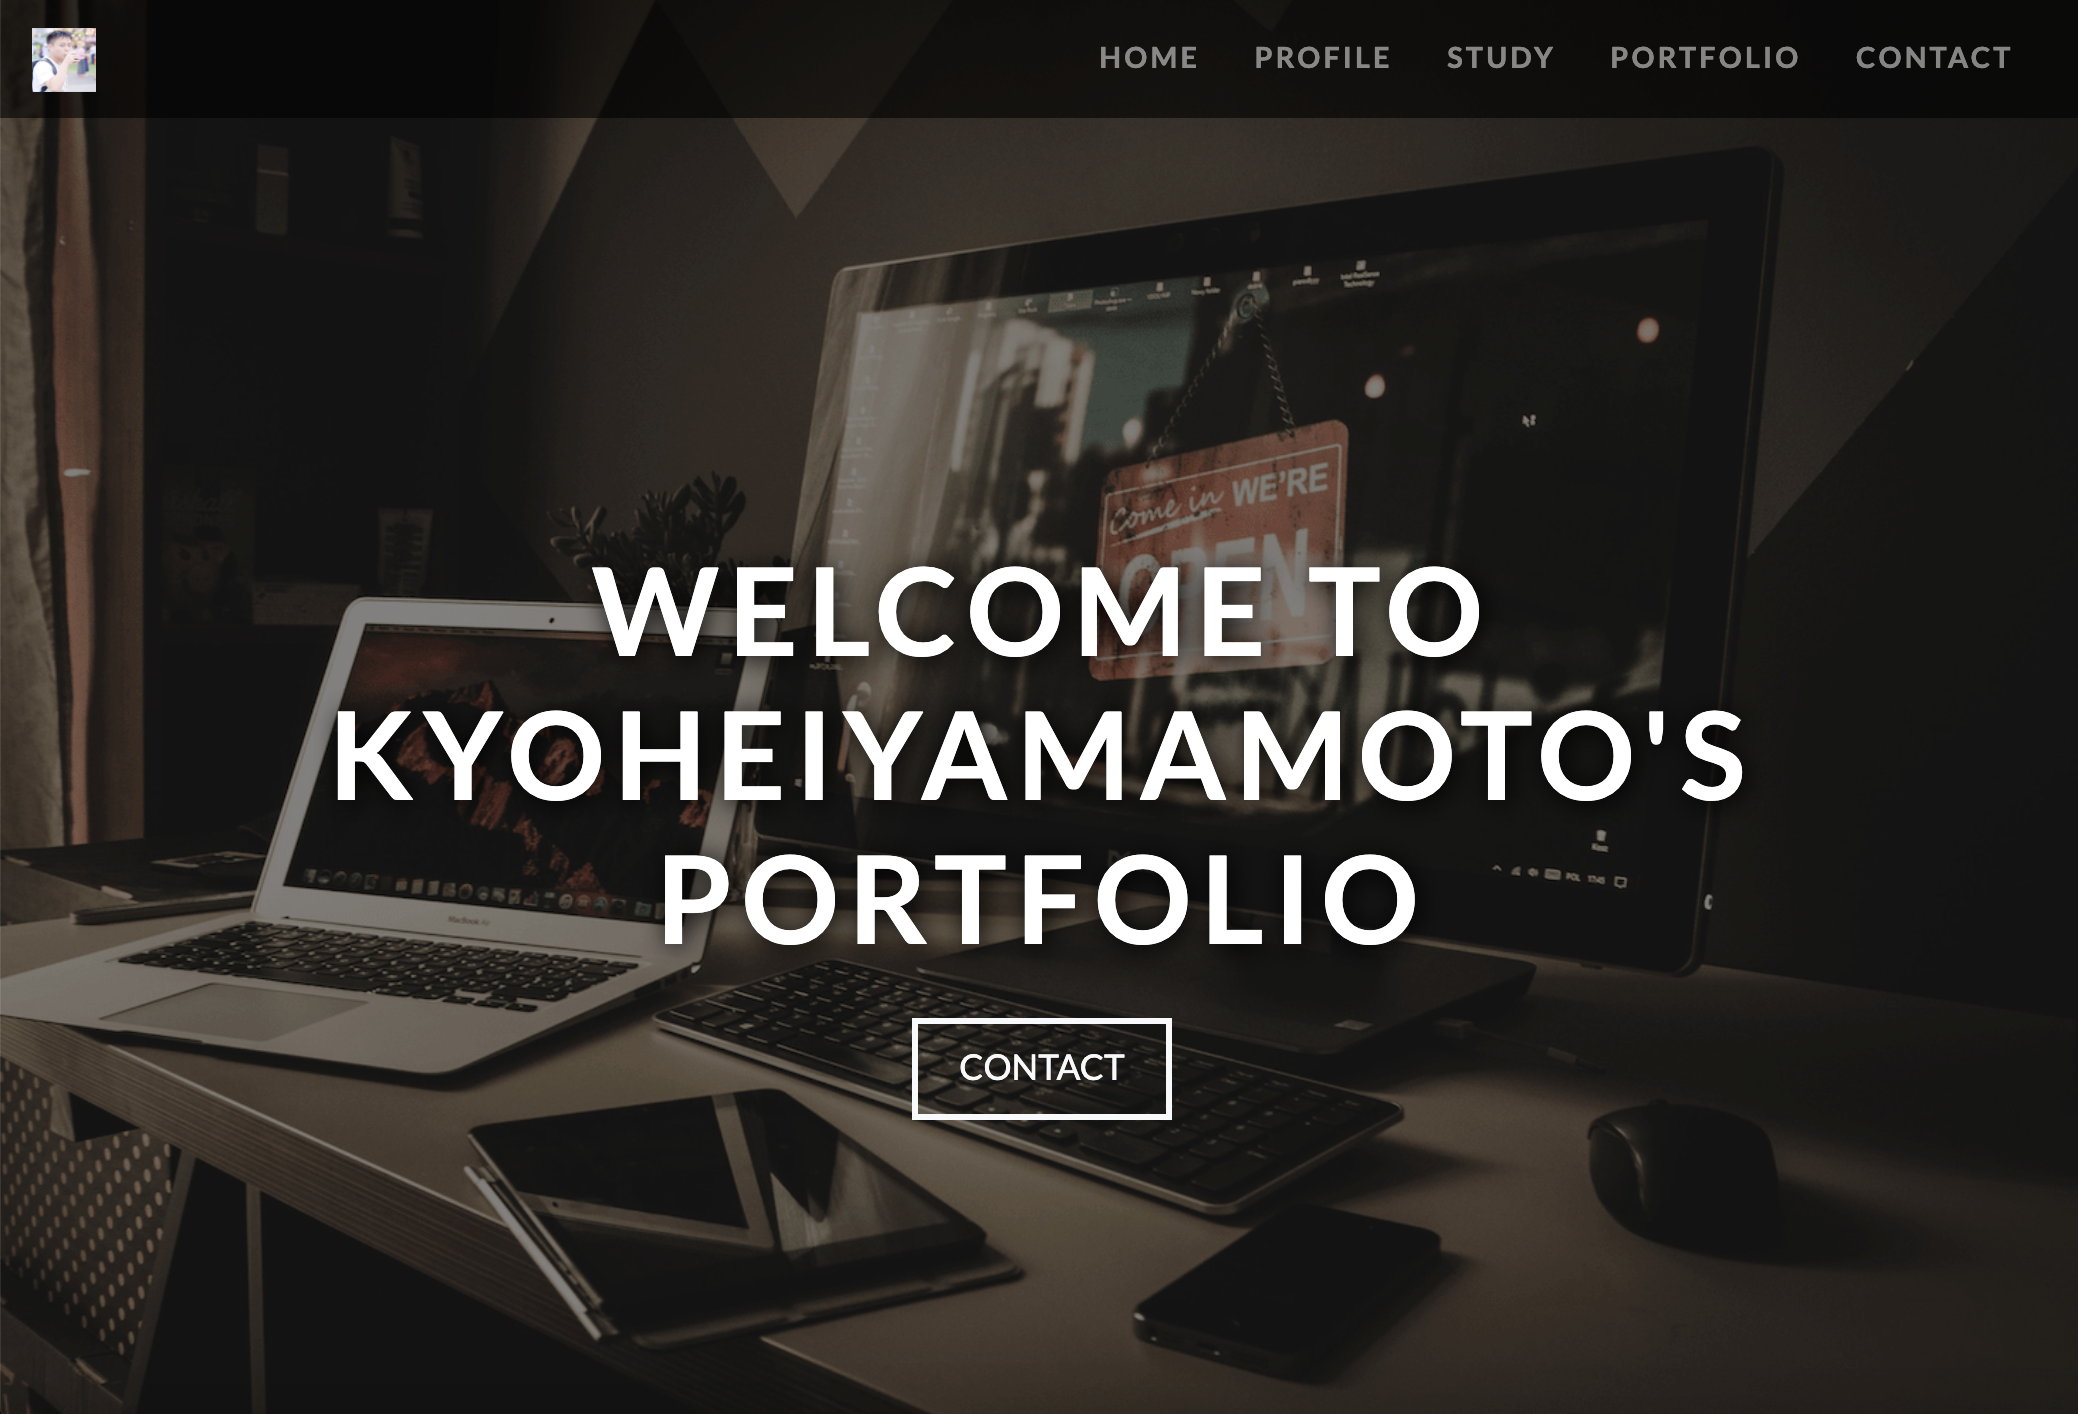
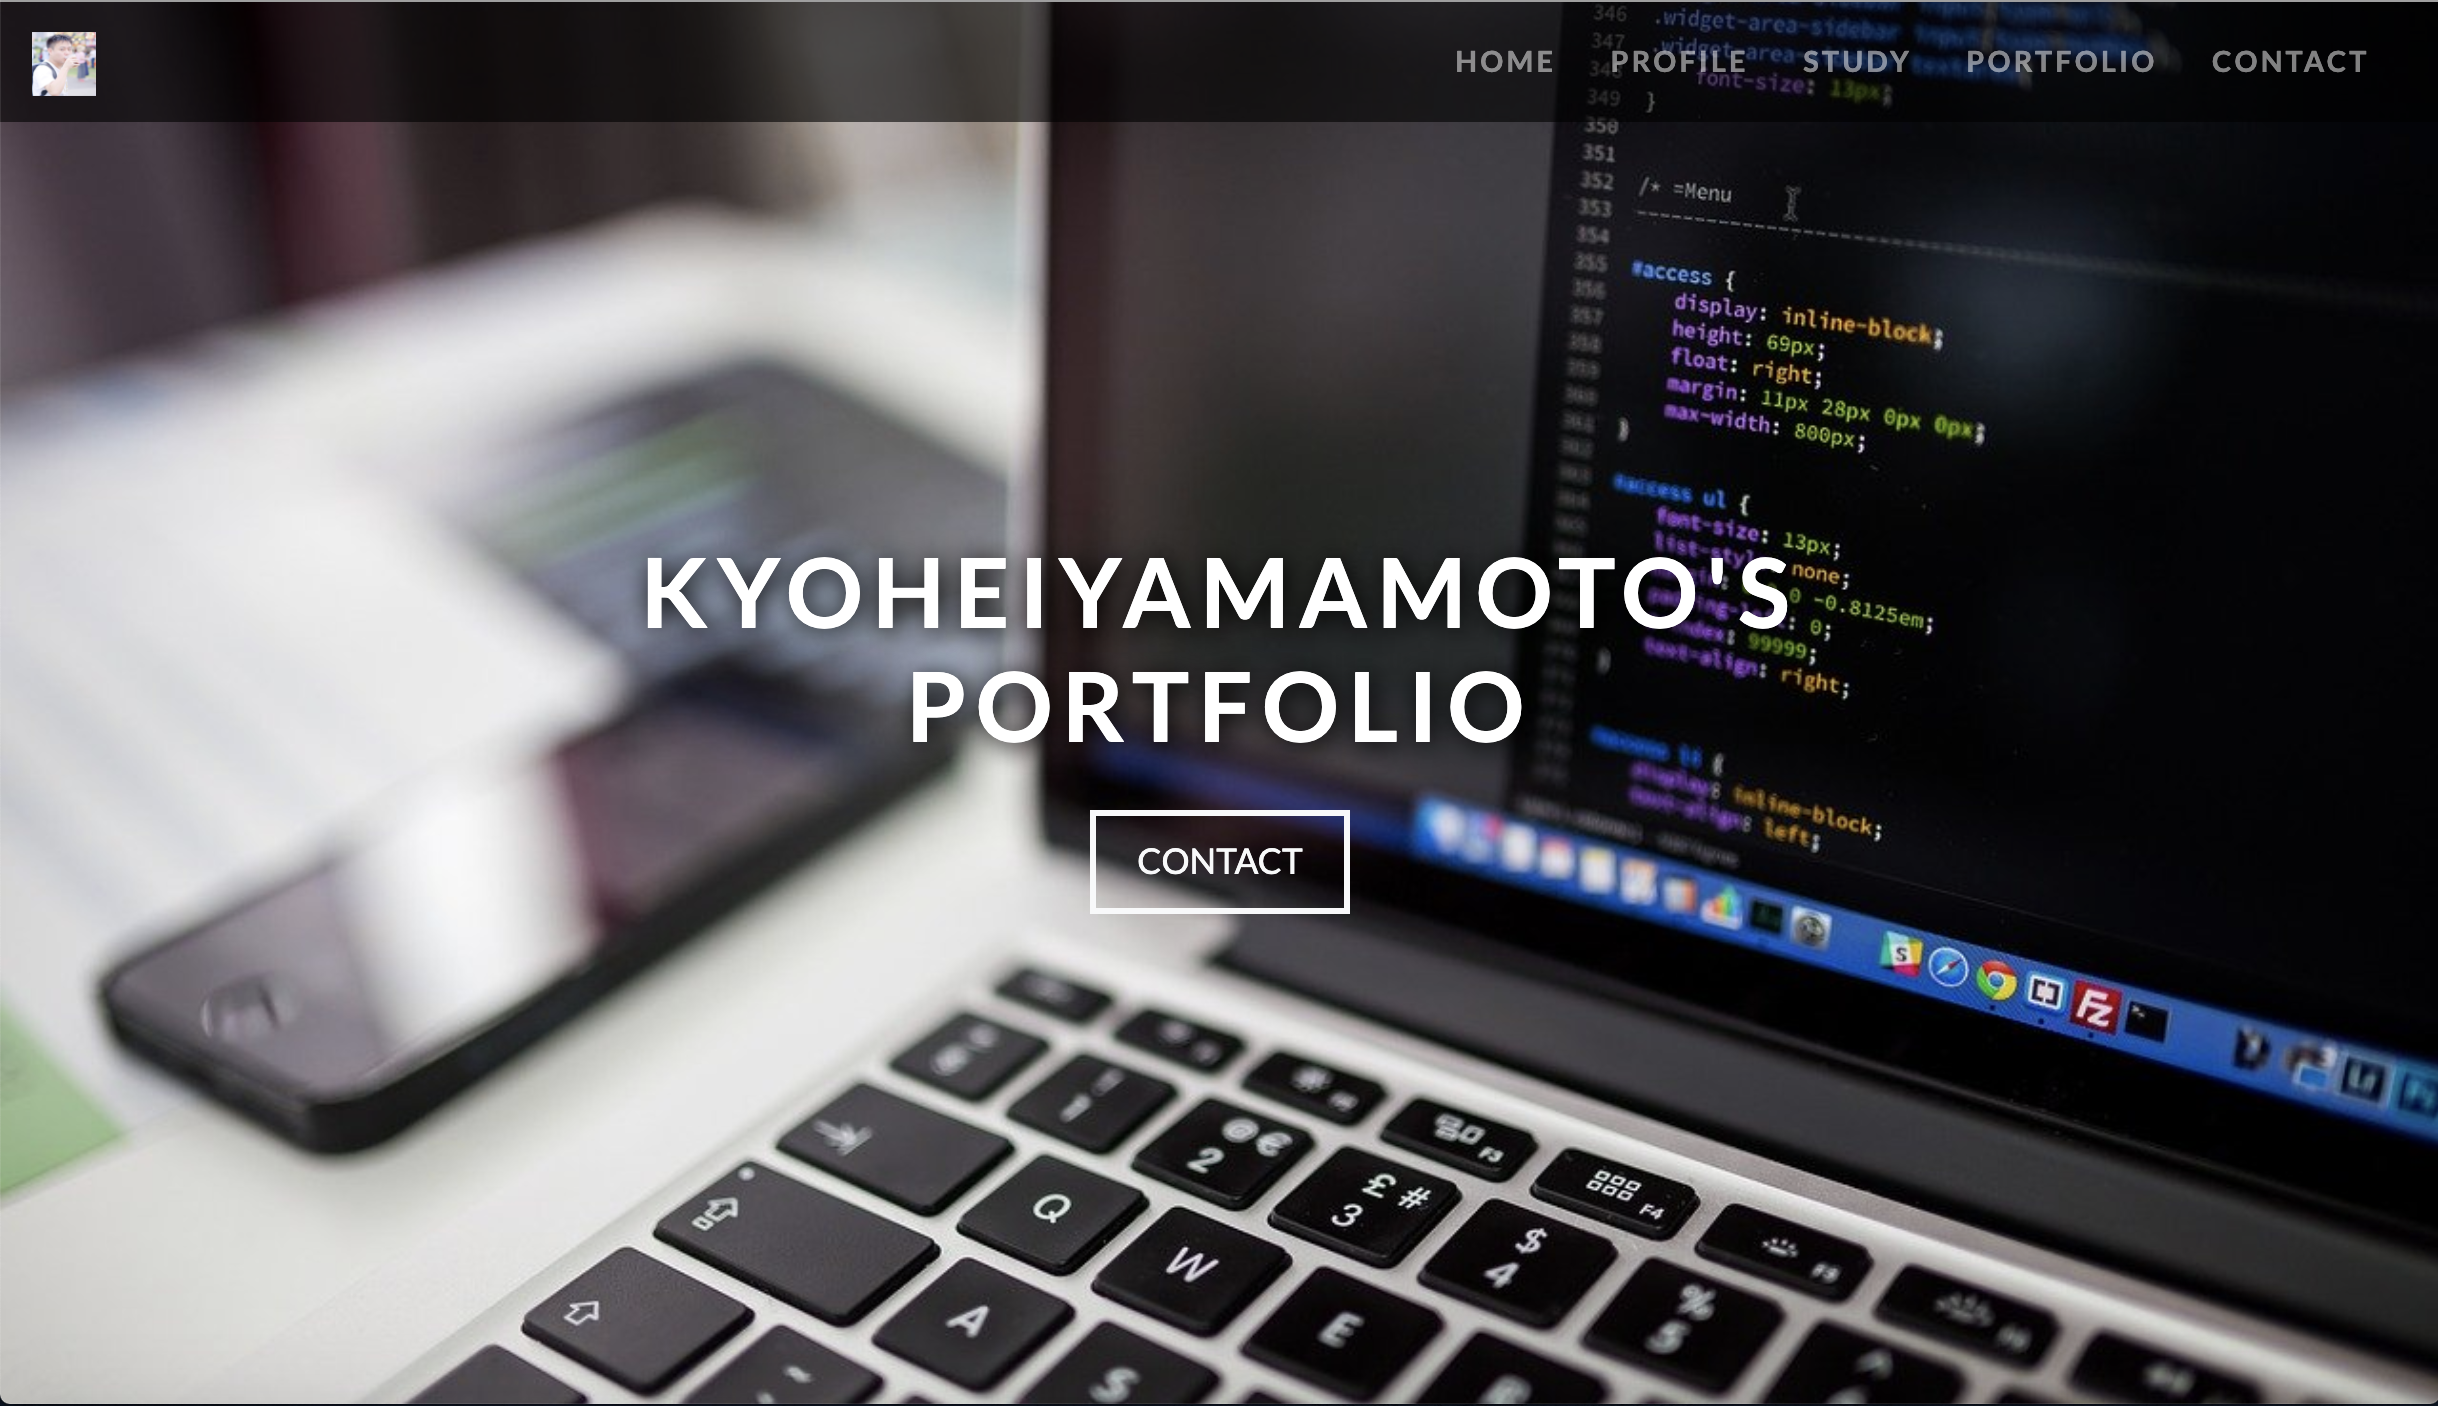
画像取り替え

diff --git a/index.html b/index.html
@@ -9,196 +9,186 @@
 		<link rel="stylesheet" href="css/fixed.css">
 	</head>
 	<body data-spy="scroll" data-target="#navbarResponsive">
-			<div id="home">
-					<nav class="navbar navbar-expand-md navbar-dark bg-dark fixed-top">
-						<a href="#profile" class="navbar-brand"><img src="img/icon.jpg" ></a>
-						<button class="navbar-toggler" type="button" data-toggle="collapse" data-target="#navbarResponsive">
-						<span class="navbar-toggler-icon"></span>
-						</button>
-						<div class="collapse navbar-collapse" id="navbarResponsive">
-							<ul class="navbar-nav ml-auto">
-									<li class="nav-item ">
-										<a class="nav-link" href="#">Home</a>
-									</li>
-									<li class="nav-item ">
-										<a class="nav-link" href="#profile">profile</a>
-									</li>
-									<li class="nav-item ">
-										<a class="nav-link" href="#study">study</a>
-									</li>
-									<li class="nav-item ">
-										<a class="nav-link" href="#portfolio">portfolio</a>
-									</li>
-									<li class="nav-item ">
-										<a class="nav-link" href="#contact">Contact</a>
-									</li>
-						  </ul>
-					  </div>
-					</nav>
-					<div class="landing">
-						<div class="home-wrap">
-							<div class="home-inner">
+		<div id="home">
+			<nav class="navbar navbar-expand-md navbar-dark bg-dark fixed-top">
+				<a href="#profile" class="navbar-brand"><img src="img/icon.jpg" ></a>
+				<button class="navbar-toggler" type="button" data-toggle="collapse" data-target="#navbarResponsive">
+				<span class="navbar-toggler-icon"></span>
+				</button>
+				<div class="collapse navbar-collapse" id="navbarResponsive">
+					<ul class="navbar-nav ml-auto">
+						<li class="nav-item ">
+							<a class="nav-link" href="#">Home</a>
+						</li>
+						<li class="nav-item ">
+							<a class="nav-link" href="#profile">profile</a>
+						</li>
+						<li class="nav-item ">
+							<a class="nav-link" href="#study">study</a>
+						</li>
+						<li class="nav-item ">
+							<a class="nav-link" href="#portfolio">portfolio</a>
+						</li>
+						<li class="nav-item ">
+							<a class="nav-link" href="#contact">Contact</a>
+						</li>
+					</ul>
+				</div>
+			</nav>
+			<div class="landing">
+				<div class="home-wrap">
+					<div class="home-inner">
+					</div>
+				</div>
+			</div>
+			<div class="caption text-center">
+				<h1>KyoheiYamamoto's<br> portfolio</h1>
+				<a class="btn btn-outline-light btn-lg" href="#contact">Contact</a>
+			</div>
+		</div>
+		<div id="profile" class="offset">
+			<div class="col-12 narrow text-center">
+				<p class="lead">about</p>
+				<h1>自己紹介</h1>
+			</div>
+		</div>
+		<div class="container-fluid padding ">
+			<div class="row padding">
+				<div class="col-md-6 clients">
+					<img src="img/icon.jpg" class="img-fluid text-center">
+				</div>
+				<div class="col-md-6">
+					<p class="text-center">
+					<ul class="lead mb-5 text-left">
+						<li>名前：Kyohei Yamamoto</li>
+						<li>出身：福岡県（現在も在住）</li>
+						<li>学歴：福岡工業大学情報工学部</li>
+						<li>年齢：23</li>
+						<li>趣味：サッカー観戦。日本よりも欧州サッカーの方が無駄に詳しい</li>
+					</ul>
+					</p>
+				</div>
+			</div>
+		</div>
+		<div id="study" class="offset">
+			<div class="fixed-background">
+				<div class="row dark text-center">
+					<div class="col-12">
+						<h3 class="heading">Study</h3>
+						<p>主にPHPLaravelの勉強をしました。</p>
+						<div class="heading-underline"></div>
+					</div>
+					<div class="col-md-4 mb-4">
+						<h3>HTML 5</h3>
+						<div class="feature">
+							<i class="fas fa-code fa-3x"></i>
+						</div>
+					</div>
+					<div class="col-md-4">
+						<h3>CSS 3</h3>
+						<div class="feature">
+							<i class="fab fa-css3 fa-3x"></i>
+						</div>
+					</div>
+					<div class="col-md-4">
+						<h3>Javascript </h3>
+						<div class="feature">
+							<i class="fab fa-js-square fa-3x"></i>
+						</div>
+					</div>
+					<div class="col-md-4 mt-4">
+						<h3>PHP</h3>
+						<div class="feature">
+							<i class="fab fa-php fa-3x"></i>
+						</div>
+					</div>
+					<div class="col-md-4 mt-4">
+						<h3>Laravel</h3>
+						<div class="feature">
+							<i class="fab fa-laravel fa-3x"></i>
+						</div>
+					</div>
+					<div class="col-md-4 mt-4">
+						<h3>MySQL</h3>
+						<div class="feature">
+							<i class="fas fa-database fa-3x"></i>
+						</div>
+					</div>
+					<div class="fixed-wrap">
+						<div class="fixed">
+						</div>
+					</div>
+				</div>
+			</div>
+		</div>
+		<div id="portfolio">
+			<div class="container-fluid padding">
+				<div class="row welcome text-center">
+					<div class="col-12">
+						<h1 class="display-4 my-4">portfolio</h1>
+					</div>
+					<hr>
+				</div>
+			</div>
+			<div class="container-fluid padding">
+				<div class="row padding">
+					<div class="col-md-4">
+						<div class="card">
+							<img  class="card-img-top" src="img/profile.png">
+							<div class="card-body">
+								<h4 class="card-title">profileサイト</h4>
+								<p class="card-text"><br>自分自身のポートフォリオです。<br>
+								jqueryはスムーススクロールを実装しました。</p>
+								<p>HTML/CSS/bootstrap4/jquery</p>
+								<a href="https://github.com/KyoheiYamamoto/portfolio" class="btn btn-outline-secondary">github</a>
 							</div>
 						</div>
 					</div>
-					<div class="caption text-center">
-						<h1>KyoheiYamamoto's<br> portfolio</h1>
-						<a class="btn btn-outline-light btn-lg" href="#contact">Contact</a>
-					</div>
-			</div>
-			<div id="profile" class="offset">
-				<div class="col-12 narrow text-center">
-					<p class="lead">about</p>
-					<h1>自己紹介</h1>
-				</div>
-			</div>
-				<div class="container-fluid padding ">
-					<div class="row padding">
-							<div class="col-md-6 clients">
-								<img src="img/icon.jpg" class="img-fluid text-center">
-							</div>
-							<div class="col-md-6">
-								<p class="text-center">
-									<ul class="lead mb-5 text-left">
-										<li>名前：Kyohei Yamamoto</li>
-										<li>出身：福岡県（現在も在住）</li>
-										<li>学歴：福岡工業大学情報工学部</li>
-										<li>年齢：23</li>
-										<li>趣味：サッカー観戦。日本よりも欧州サッカーの方が無駄に詳しい</li>
-									</ul>
-								</p>
-						 </div>
-				 	</div>
-				</div>
-			</div>
-			<div id="study" class="offset">
-				<div class="fixed-background">
-					<div class="row dark text-center">
-							<div class="col-12">
-								<h3 class="heading">Study</h3>
-								<p>主にPHPLaravelの勉強をしました。</p>
-								<div class="heading-underline"></div>
-							</div>
-									<div class="col-md-4">
-										<h3>HTML 5</h3>
-										<div class="feature">
-											<i class="fas fa-code fa-3x"></i>
-										</div>
-										<p class="lead">勉強期間:3ヶ月</p>
-									</div>
-									<div class="col-md-4">
-										<h3>CSS 3</h3>
-										<div class="feature">
-											<i class="fab fa-css3 fa-3x"></i>
-										</div>
-										<p class="lead">勉強期間:3ヶ月</p>
-									</div>
-									<div class="col-md-4">
-										<h3>Javascript </h3>
-										<div class="feature">
-											<i class="fab fa-js-square fa-3x"></i>
-										</div>
-										<p class="lead">勉強期間:3ヶ月</p>
-									</div>
-									<div class="col-md-4">
-										<h3>PHP</h3>
-										<div class="feature">
-											<i class="fab fa-php fa-3x"></i>
-										</div>
-										<p class="lead">勉強期間:3ヶ月</p>
-									</div>
-									<div class="col-md-4">
-										<h3>Laravel</h3>
-										<div class="feature">
-											<i class="fab fa-laravel fa-3x"></i>
-										</div>
-										<p class="lead">勉強期間:3ヶ月</p>
-									</div>
-									<div class="col-md-4">
-										<h3>MySQL</h3>
-										<div class="feature">
-											<i class="fas fa-database fa-3x"></i>
-										</div>
-										<p class="lead">勉強期間:3ヶ月</p>
-									</div>
-
-									<div class="fixed-wrap">
-										<div class="fixed">
-										</div>
-									</div>
-					 </div>
-				</div>
-			</div>
-
-
-			<div id="portfolio">
-				<div class="container-fluid padding">
-					<div class="row welcome text-center">
-						<div class="col-12">
-							<h1 class="display-4">portfolio</h1>
-						</div>
-						<hr>
-					</div>
-				</div>
-				<div class="container-fluid padding">
-					<div class="row padding">
-						<div class="col-md-4">
-							<div class="card">
-									<img  class="card-img-top" src="img/profile.png">
-									<div class="card-body">
-										<h4 class="card-title">profileサイト</h4>
-										<p class="card-text"><br>自分自身のポートフォリオです。<br>
-										jqueryはスムーススクロールを実装しました。</p>
-										<p>HTML/CSS/bootstrap4/jquery</p>
-										<a href="https://github.com/KyoheiYamamoto/portfolio" class="btn btn-outline-secondary">github</a>
-									</div>
+					<div class="col-md-4">
+						<div class="card">
+							<img  class="card-img-top" src="img/portfolio2.png">
+							<div class="card-body">
+								<h4 class="card-title">宿泊先投稿サイトBarato</h4>
+								<p class="card-text">宿泊先のレビューの投稿、閲覧できるアプリです。ホテルのレビュー投稿や削除・編集機能を作成しました。</p>
+								<p>HTML/CSS/phpLaravel/jquery/Mysql</p>
+								<a href="https://github.com/KyoheiYamamoto/portfolio" class="btn btn-outline-secondary">github</a>
 							</div>
 						</div>
-							<div class="col-md-4">
-								<div class="card">
-									<img  class="card-img-top" src="img/portfolio2.png">
-										<div class="card-body">
-											<h4 class="card-title">宿泊先投稿サイトBarato</h4>
-											<p class="card-text">宿泊先のレビューの投稿、閲覧できるアプリです。ホテルのレビュー投稿や削除・編集機能を作成しました。</p>
-											<p>HTML/CSS/phpLaravel/jquery/Mysql</p>
-											<a href="https://github.com/KyoheiYamamoto/portfolio" class="btn btn-outline-secondary">github</a>
-										</div>
-									</div>
+					</div>
+					<div class="col-md-4">
+						<div class="card">
+							<img  class="card-img-top" src="img/coming-soon.png">
+							<div class="card-body">
+								<h4 class="card-title">Comming soon</h4>
+								<p class="card-text">ポートフォリオが出来次第、更新をする予定です。もうしばらくお待ちください</p>
+								<p>HTML/CSS/phpLaravel/jquery/Mysql</p>
+								<a href="#" class="btn btn-outline-secondary">github</a>
 							</div>
-							<div class="col-md-4">
-								<div class="card">
-									<img  class="card-img-top" src="img/coming-soon.png">
-									<div class="card-body">
-										<h4 class="card-title">Comming soon</h4>
-										<p class="card-text">ポートフォリオが出来次第、更新をする予定です。もうしばらくお待ちください</p>
-										<p>HTML/CSS/phpLaravel/jquery/Mysql</p>
-										<a href="#" class="btn btn-outline-secondary">github</a>
-									</div>
-								</div>
-							</div>
+						</div>
 					</div>
 				</div>
 			</div>
-			<div id="contact" class="offset">
-					<footer>
-							<div class="row justify-content-center">
-
-									<div class="col-md-8 text-center">
-										<h1>お問い合わせ</h1>
-										<p>何かありましたらtwitterのDMやお問い合わせフォームへどしどしご連絡をください。</p>
-										<h3>SNS</h3>
-										<a class="social-link1 " href="https://twitter.com/davidkyohei" target="”_blank”">
-                      <i class="fab fa-twitter fa-4x"></i></a>
-										<a class="social-link2 " href="https://github.com/KyoheiYamamoto" target="”_blank”">
-                      <i class="fab fa-github fa-4x"></i></a>
-									</div>
-									<iframe src="https://docs.google.com/forms/d/e/1FAIpQLSe18y9IZCvBSp554g1y7p3qCLGQ5rNja2F8HRD5dWRXkrEu3A/viewform?embedded=true" width="100%" height="1200" frameborder="0" marginheight="0" marginwidth="0">読み込んでいます…</iframe>
-							</div>
-					</footer>
+		</div>
+			<div id="contact" class="offset my-4">
+				<footer>
+					<div class="row justify-content-center">
+						<div class="col-md-8 text-center">
+							<h1>お問い合わせ</h1>
+								<p>何かありましたらtwitterのDMやお問い合わせフォームへどしどしご連絡をください。</p>
+								<h3>SNS</h3>
+								<a class="social-link1 " href="https://twitter.com/davidkyohei" target="”_blank”">
+								<i class="fab fa-twitter fa-4x"></i></a>
+								<a class="social-link2 " href="https://github.com/KyoheiYamamoto" target="”_blank”">
+								<i class="fab fa-github fa-4x"></i></a>
+								<a class="social-link3 " href="http://kyoheicontacts.herokuapp.com/" target="”_blank”">
+								<i class="fas fa-envelope"></i></a>
+						</div>
+					</div>
+				</footer>
 			</div>
-			<script src="js/jquery-3.3.1.min.js"></script>
-			<script src="bootstrap-4.1.3-dist/js/bootstrap.min.js"></script>
-			<script src="https://use.fontawesome.com/releases/v5.5.0/js/all.js"></script>
-      <script type='text/javascript' src="js/profile.js"></script>
+	  <script src="js/jquery-3.3.1.min.js"></script>
+  	<script src="bootstrap-4.1.3-dist/js/bootstrap.min.js"></script>
+	  <script src="https://use.fontawesome.com/releases/v5.5.0/js/all.js"></script>
+    <script type='text/javascript' src="js/profile.js"></script>
 	</body>
 </html>

diff --git a/style.css b/style.css
@@ -182,14 +182,17 @@ footer a {
 .social-link2 {
   color: black;
 }
+.social-link3 {
+  color: blueviolet;
+}
 
 footer svg.svg-inline--fa {
   font-size: 3rem;
   margin: 1.5rem 1.5rem;
 }
-footer svg.svg-inline--fa:hover {
+/* footer svg.svg-inline--fa:hover {
   color: #1ebba3 !important;
-}
+} */
 hr.socket {
   width: 100%;
   border-top: 0.2rem solid #666b71;

diff --git a/css/fixed.css b/css/fixed.css
@@ -11,7 +11,7 @@ margin-right: 0px!important;
 
 /*--- Fix for Fixed Navbar jumping on scroll --*/
 .fixed-top  {
- -webkit-backface-visibility: hidden;
+ -webkit-backface-visibility:hidden;
 }
 
 /*--- Fixed Landing Page Section --*/
